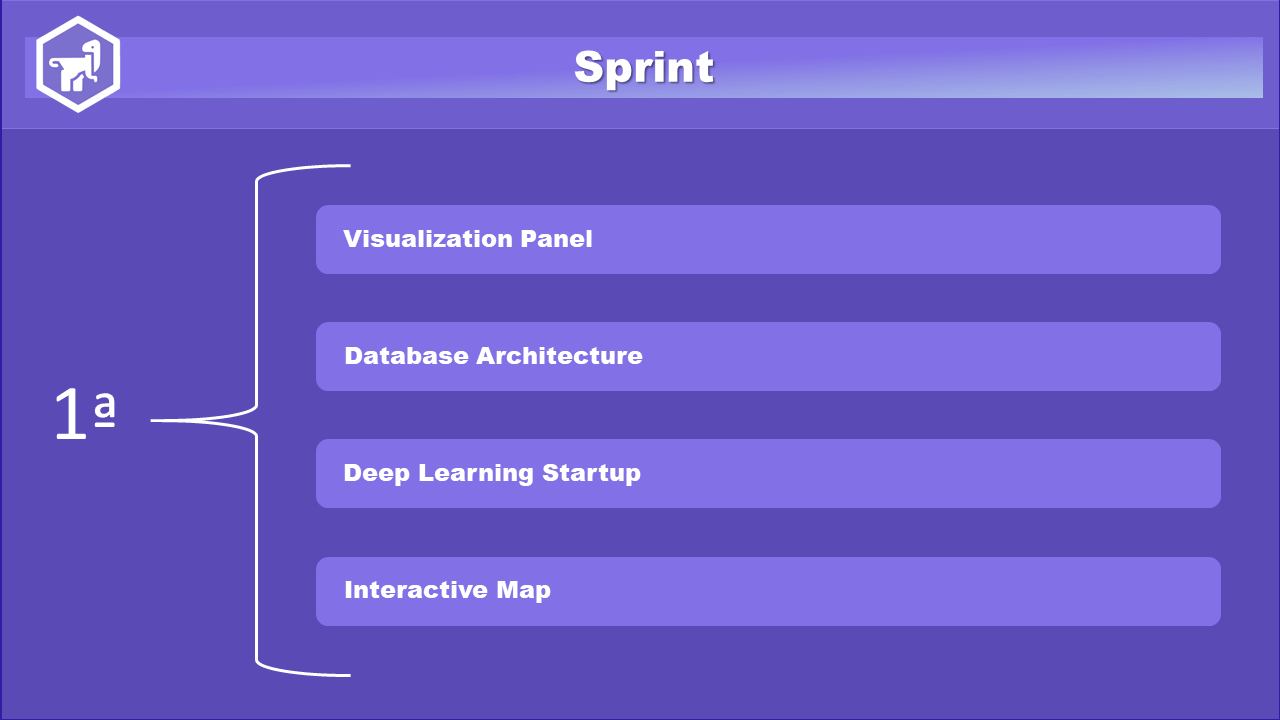
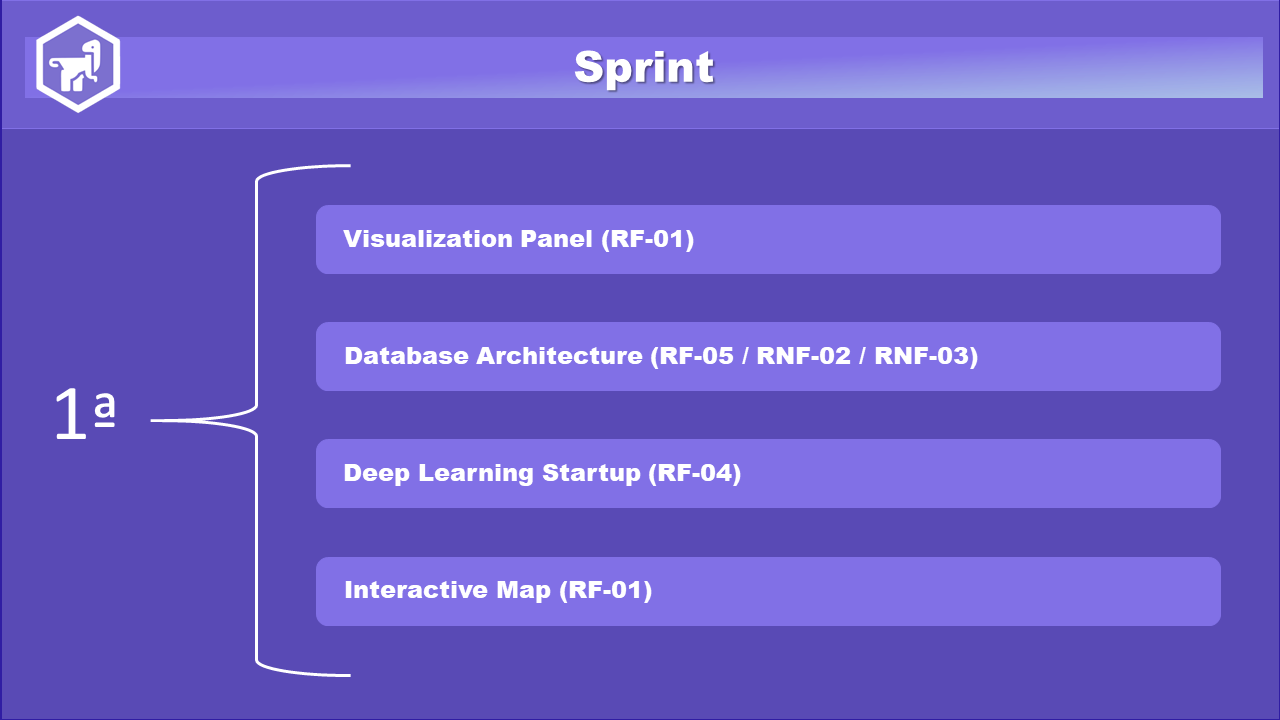
:books: docs: Update readme and add image under construction.

diff --git a/README.md b/README.md
@@ -23,17 +23,17 @@
 # Requirements
 
 ### Functional
-* Geolocated Sentiment Visualization
-* Authentication and Session Management
-* Multisource Integration of Reviews
-* Advanced Sentiment Analysis
-* Data Storage and Management
-* Data Visualization and Reporting
+* Geolocated Sentiment Visualization (RF01)
+* Authentication and Session Management (RF02)
+* Multisource Integration of Reviews (RF03)
+* Advanced Sentiment Analysis (RF04)
+* Data Storage and Management (RF05)
+* Data Visualization and Reporting (RF06)
 
 ### Non-Functional
-* Compliance and Reporting
-* Interoperability and Security
-* Performance and Scalability
+* Compliance and Security (RNF-01)
+* Interoperability and Integration (RNF-02)
+* Performance and Scalability (RNF-03)
 
 It was decided that the project would be divided into 4 deliveries, throughout the sprints it will be updated and modified as the deliveries progress.
 
@@ -52,7 +52,7 @@ It was decided that the project would be divided into 4 deliveries, throughout t
     <tr>
       <td>1</td>
       <td>Alto</td>
-      <td align="justify">As a system administrator, I want a platform with dashboards to visualize the data that my institution has and understand the general opinion in different regions, thereby obtaining insights that will help my managers in making decisions and improving the customer experience.</td>
+      <td align="justify">As a system administrator, I want a platform with dashboards to visualize the data that my institution has and understand the general opinion in different regions, thereby obtaining insights that will help my managers in making decisions and improving the customer experience.(RF06)</td>
       <td>1</td>
       <td>1</td>
     </tr>
@@ -135,8 +135,8 @@ It was decided that the project would be divided into 4 deliveries, throughout t
 |  Kick-Off  | 11/03 to 24/03 | *N/A* |
 |  Sprint 1  | 25/03 to 14/04 | [View](https://github.com/GroupHextech/HEXTECH-API6sem/tree/main/docs/Sprints/Sprint-1.md) |
 |  Sprint 2  | 15/04 to 05/05 | [View](https://github.com/GroupHextech/HEXTECH-API6sem/tree/main/docs/Sprints/Sprint-2.md) | 
-|  Sprint 3  | 06/05 to 26/05 | [View]() |
-|  Sprint 4  | 27/05 to 16/06 | [View]() |
+|  Sprint 3  | 06/05 to 26/05 | [View](https://github.com/GroupHextech/HEXTECH-API6sem/tree/main/docs/Sprints/Sprint-3.md) |
+|  Sprint 4  | 27/05 to 16/06 | [View](https://github.com/GroupHextech/HEXTECH-API6sem/tree/main/docs/Sprints/Sprint-4.md) |
 
 
 # Team 👩💻
